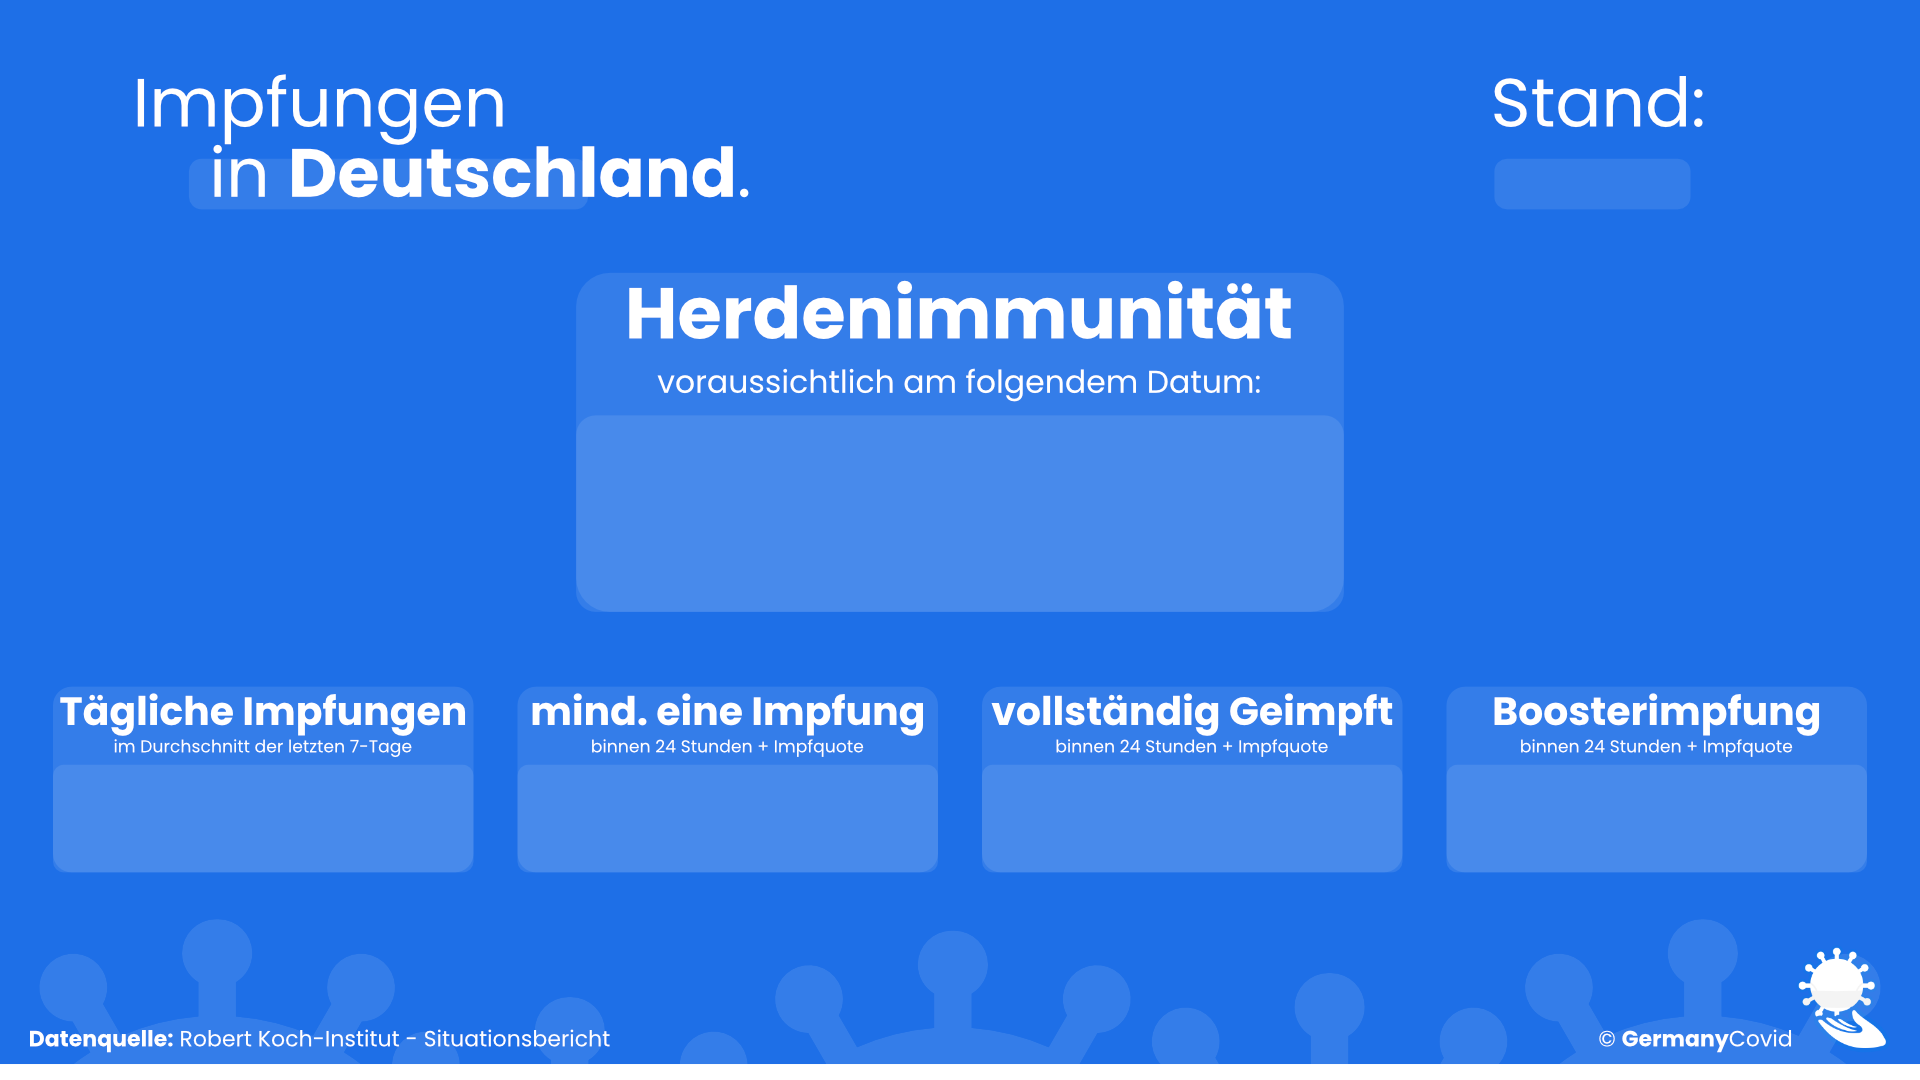
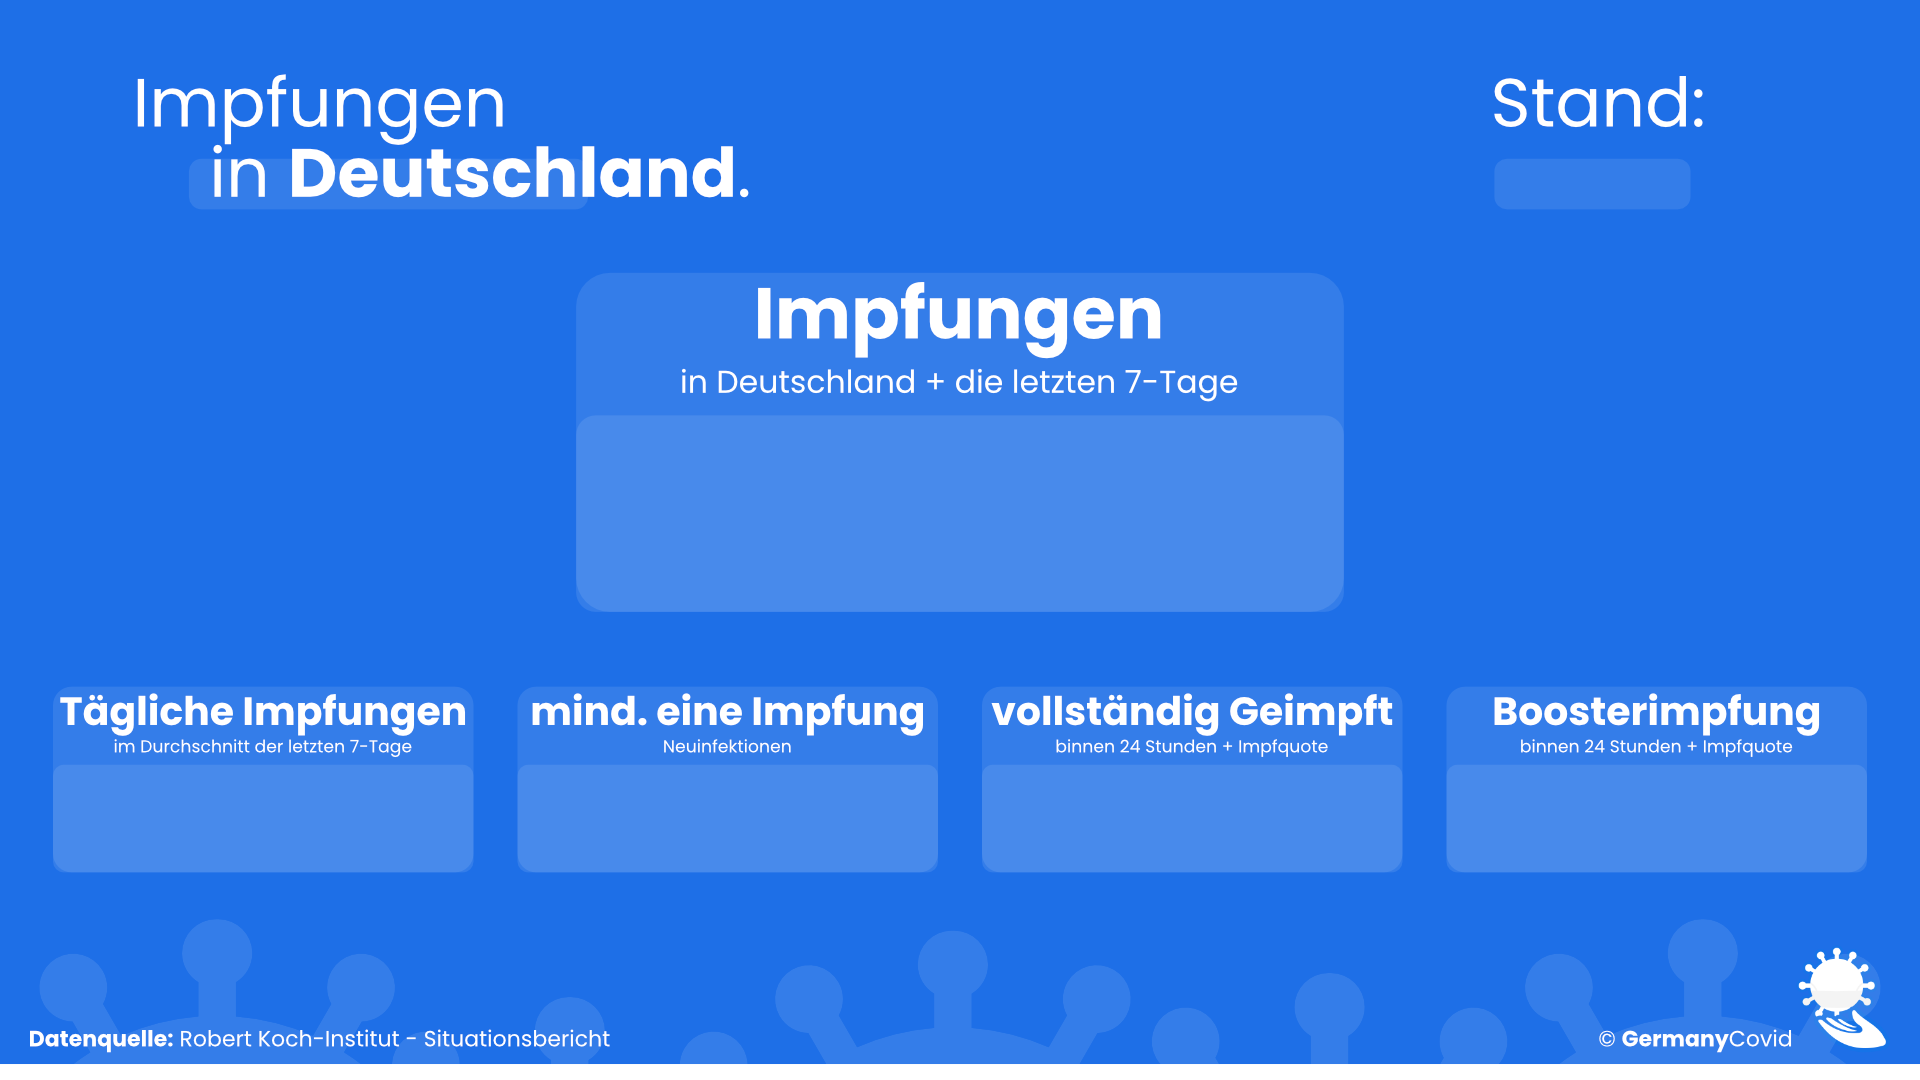
Replaced vaccinations date with current

Changed region(s): [[0.3125, 0.2444, 0.6875, 0.3667], [0.3125, 0.6722, 0.4375, 0.7028]]

diff --git a/src/services/image.service.ts b/src/services/image.service.ts
@@ -197,7 +197,7 @@ export namespace ImageService {
                     const expectedDate = new Date();
                     expectedDate.setDate(expectedDate.getDate() + daysNeeded);
 
-                    image.setElement("Nicht verfügbar", "bei erforderlichen 85%", 960, 520, true);
+                    image.setElement(numberFormat.format(data.current.data.administeredVaccinations), numberFormat.format(vaccinated + boosterVaccinated) + " die letzten 7-Tage", 960, 520, true);
                     image.setElement(numberFormat.format(Math.round(r + (boosterVaccinated / 7))), "Heute: " + numberFormat.format(data.current.data.delta + data.current.data.secondVaccination.delta + data.current.data.boosterVaccination.delta), 265, 825);
 
                     image.setElement(numberFormat.format(data.current.data.vaccinated), "+ ~" + numberFormat.format(data.current.data.delta) + " | " + numberFormat.format(Number((data.current.data.quote * 100).toFixed(1))) + "%", 730, 825);
